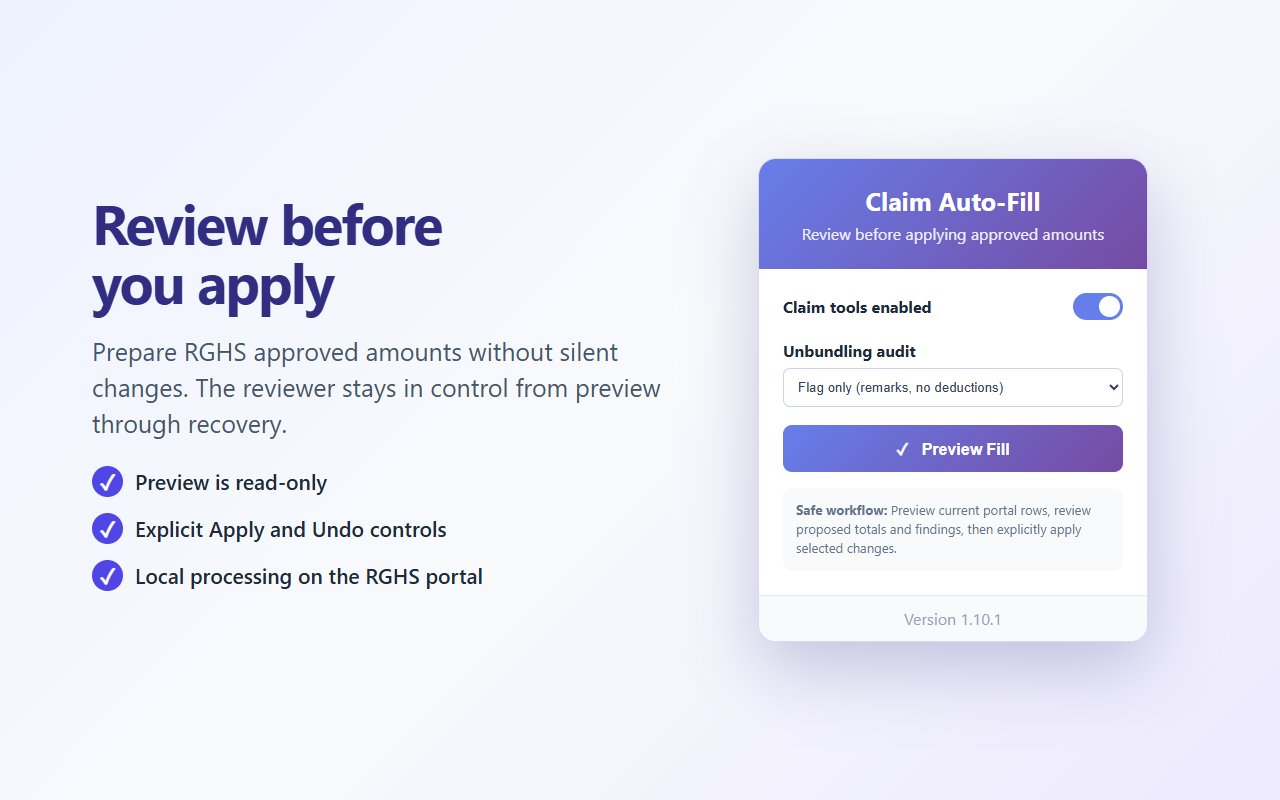
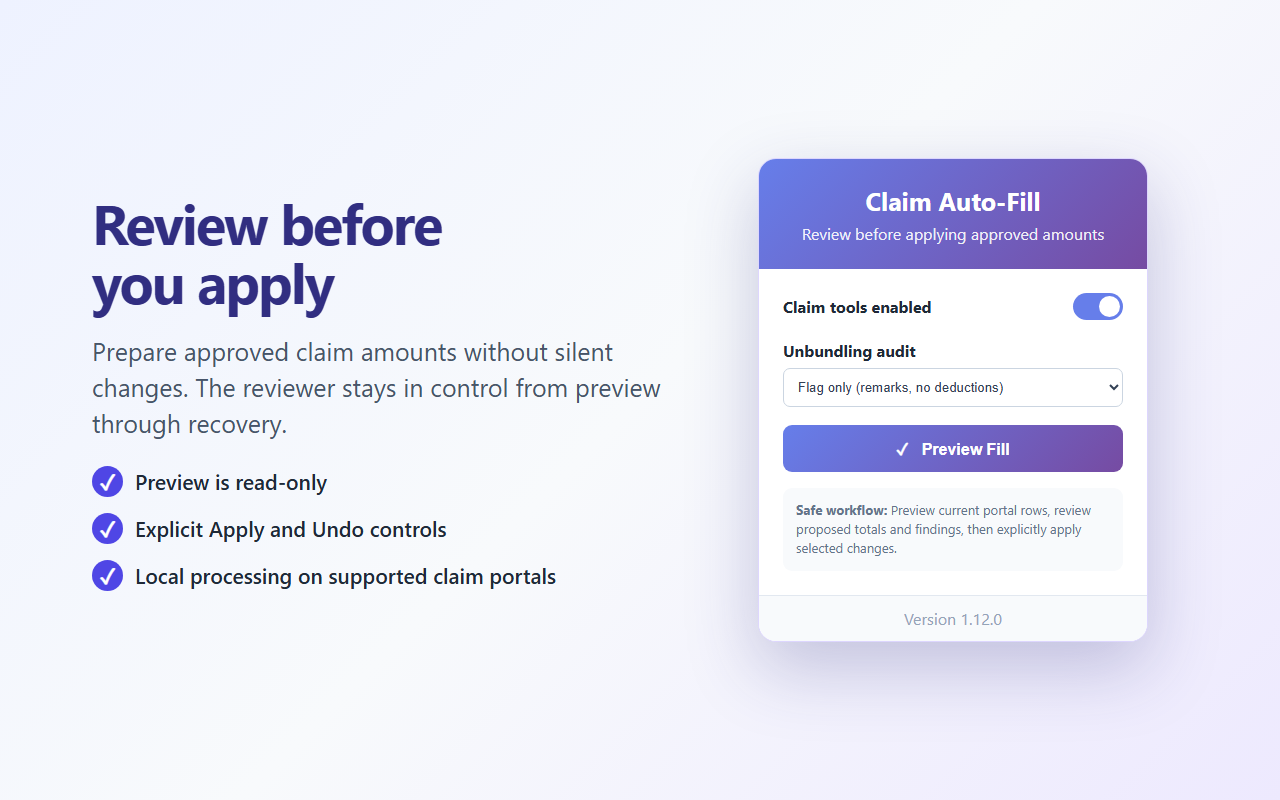
refactor(branding): use generic claim wording across product

diff --git a/hosting/terms.html b/hosting/terms.html
@@ -1,1 +1,1 @@
-<!doctype html><html lang="en"><head><meta charset="utf-8"><meta name="viewport" content="width=device-width,initial-scale=1"><title>Claim Spark Terms</title><link rel="stylesheet" href="/styles.css"></head><body><main class="public-shell"><a class="brand" href="/">Claim Spark</a><h1>Terms</h1><p>Claim Spark is a review aid for authorized users. It does not provide medical advice, make final adjudication decisions, or submit claims automatically. Users remain responsible for verifying every proposed change and complying with RGHS and organizational requirements.</p><h2>Paid individual access</h2><p>The official payment destination is <strong>YUVAN ENTERPRISES</strong>, UPI ID <strong>yuvanent@ybl</strong>. Plans cost ₹99 for 1 week, ₹198 for 2 weeks, ₹300 for 4 weeks and ₹500 for 12 weeks. Confirm the receiver and exact plan amount before authorizing payment. Access begins only after the payment is independently verified, the account is approved and the matching licence term is activated. Submitting a UPI transaction ID does not itself prove payment or guarantee activation.</p><h2>Refunds</h2><p>Submit a refund request to support at 7073684173 within 3 calendar days of payment. Refunds are eligible for a verified duplicate payment, cancellation before licence activation or use, or a verified payment that cannot be fulfilled because access cannot be activated. An approved refund will be initiated within 3 calendar days.</p><p>Payments are non-refundable after the request deadline, after the licence has been activated or used, when access is suspended or terminated for misuse or a terms violation, when the submitted transaction cannot be independently verified, or when payment was sent to an account other than the official UPI ID above. These rules do not limit rights that cannot be excluded under applicable law. A confirmed refund, reversal or payment dispute may deactivate the related licence.</p></main></body></html>
+<!doctype html><html lang="en"><head><meta charset="utf-8"><meta name="viewport" content="width=device-width,initial-scale=1"><title>Claim Spark Terms</title><link rel="stylesheet" href="/styles.css"></head><body><main class="public-shell"><a class="brand" href="/">Claim Spark</a><h1>Terms</h1><p>Claim Spark is a review aid for authorized users. It does not provide medical advice, make final adjudication decisions, or submit claims automatically. Users remain responsible for verifying every proposed change and complying with applicable claim-scheme and organizational requirements.</p><h2>Paid individual access</h2><p>The official payment destination is <strong>YUVAN ENTERPRISES</strong>, UPI ID <strong>yuvanent@ybl</strong>. Plans cost ₹99 for 1 week, ₹198 for 2 weeks, ₹300 for 4 weeks and ₹500 for 12 weeks. Confirm the receiver and exact plan amount before authorizing payment. Access begins only after the payment is independently verified, the account is approved and the matching licence term is activated. Submitting a UPI transaction ID does not itself prove payment or guarantee activation.</p><h2>Refunds</h2><p>Submit a refund request to support at 7073684173 within 3 calendar days of payment. Refunds are eligible for a verified duplicate payment, cancellation before licence activation or use, or a verified payment that cannot be fulfilled because access cannot be activated. An approved refund will be initiated within 3 calendar days.</p><p>Payments are non-refundable after the request deadline, after the licence has been activated or used, when access is suspended or terminated for misuse or a terms violation, when the submitted transaction cannot be independently verified, or when payment was sent to an account other than the official UPI ID above. These rules do not limit rights that cannot be excluded under applicable law. A confirmed refund, reversal or payment dispute may deactivate the related licence.</p></main></body></html>

diff --git a/hosting/privacy.html b/hosting/privacy.html
@@ -1,1 +1,1 @@
-<!doctype html><html lang="en"><head><meta charset="utf-8"><meta name="viewport" content="width=device-width,initial-scale=1"><title>Claim Spark Privacy</title><link rel="stylesheet" href="/styles.css"></head><body><main class="public-shell"><a class="brand" href="/">Claim Spark</a><h1>Privacy</h1><p>Claim Spark processes RGHS claim content locally in the authorized processor's browser. The Firebase service receives account, organization, role, licence, invitation, rate-limit and privacy-safe event metadata. It does not receive patient names, claim identifiers, clinical text, claim amounts, portal URLs or remarks during routine operation.</p><h2>Individual payments</h2><p>Individual users pay outside the extension using the official UPI QR code supplied by an administrator. Claim Spark stores the submitted UPI transaction ID (UTR), payment-verification status, verifier and verification time for access administration and audit purposes. It does not request or store UPI PINs, OTPs, card numbers, passwords or bank-account credentials.</p><p>The payment reference remains with the account record until it is replaced or the account is deleted and redacted under the account-deletion process. For privacy requests, use the support page.</p><nav class="public-links"><a href="/support">Support</a><a href="/deletion">Account deletion</a></nav></main></body></html>
+<!doctype html><html lang="en"><head><meta charset="utf-8"><meta name="viewport" content="width=device-width,initial-scale=1"><title>Claim Spark Privacy</title><link rel="stylesheet" href="/styles.css"></head><body><main class="public-shell"><a class="brand" href="/">Claim Spark</a><h1>Privacy</h1><p>Claim Spark processes claim content locally in the authorized processor's browser. The Firebase service receives account, organization, role, licence, invitation, rate-limit and privacy-safe event metadata. It does not receive patient names, claim identifiers, clinical text, claim amounts, portal URLs or remarks during routine operation.</p><h2>Individual payments</h2><p>Individual users pay outside the extension using the official UPI QR code supplied by an administrator. Claim Spark stores the submitted UPI transaction ID (UTR), payment-verification status, verifier and verification time for access administration and audit purposes. It does not request or store UPI PINs, OTPs, card numbers, passwords or bank-account credentials.</p><p>The payment reference remains with the account record until it is replaced or the account is deleted and redacted under the account-deletion process. For privacy requests, use the support page.</p><nav class="public-links"><a href="/support">Support</a><a href="/deletion">Account deletion</a></nav></main></body></html>

diff --git a/floating-widget.js b/floating-widget.js
@@ -439,7 +439,7 @@
           open.addEventListener('click', () => {
             const url = new URL(entry.transactionUrl, location.origin);
             if (url.origin !== location.origin) {
-              showStatus('The portal record link is not available on this RGHS page.', 'error');
+              showStatus('The portal record link is not available on this claim page.', 'error');
               return;
             }
             url.hash = entry.transactionId || '';
@@ -597,7 +597,7 @@
     cardHistory.hidden = false;
     cardHistory.replaceChildren();
     const title = document.createElement('strong');
-    title.textContent = `RGHS case history (${history.cases.length})`;
+    title.textContent = `Claim case history (${history.cases.length})`;
     cardHistory.appendChild(title);
     if (history.cases.length) {
       const list = document.createElement('ul');
@@ -684,7 +684,7 @@
       });
       cardHistory.append(blockedInvestigations, historyResults);
     }
-    makeSectionCollapsible(cardHistory, 'card-history', `RGHS case history (${history.cases.length})`);
+    makeSectionCollapsible(cardHistory, 'card-history', `Claim case history (${history.cases.length})`);
   }
 
   function renderInvestigationChecklist() {
@@ -985,7 +985,7 @@
       applyButton.disabled = true;
       const messages = {
         'autofill-disabled': 'BLOCKED: Claim Extension is OFF. Turn it on, then preview again.',
-        'unsupported-layout': 'BLOCKED: The RGHS process-sheet layout is not compatible with this extension version.',
+        'unsupported-layout': 'BLOCKED: The claim process-sheet layout is not compatible with this extension version.',
         'invalid-rule-set': 'BLOCKED: The bundled audit rules failed validation. Reload a verified extension build.',
         'invalid-processing-rule-set': 'BLOCKED: The published processing rules failed validation. Contact an administrator.',
         'processing-rules-unavailable': 'BLOCKED: The latest processing rules could not be verified. Try again when connected.',
@@ -1312,7 +1312,7 @@
       requestAnimationFrame(() => reviewList.scrollIntoView({ block: 'start', behavior: 'smooth' }));
     } catch (_) {
       if (!hasValidExtensionContext()) return invalidateStaleWidget();
-      showStatus('Unable to prepare this sheet for preview. Refresh the RGHS page and try again.', 'error');
+      showStatus('Unable to prepare this sheet for preview. Refresh the claim page and try again.', 'error');
     }
   });
   pendingButton.addEventListener('click', () => {

diff --git a/popup.js b/popup.js
@@ -969,7 +969,7 @@ function describeCounts(response) {
 function blockedMessage(reason) {
   const messages = {
     'autofill-disabled': 'Claim Extension is OFF. Turn it on, then preview again.',
-    'unsupported-layout': 'Unsupported RGHS portal layout. No fields were changed.',
+    'unsupported-layout': 'Unsupported claim portal layout. No fields were changed.',
     'invalid-rule-set': 'Audit rule validation failed. Reload a verified build.',
     'invalid-processing-rule-set': 'Published processing rules failed validation. Contact an administrator.',
     'processing-rules-unavailable': 'The latest processing rules could not be verified. Check your connection and try again.',
@@ -1052,7 +1052,7 @@ fillNowBtn.addEventListener('click', async () => {
     previewToken = null;
     previewRowKeys = [];
     setFillButton();
-    showStatus('Open an RGHS claim page, then refresh and try again', 'error');
+    showStatus('Open a supported claim page, then refresh and try again', 'error');
   }
 });
 
@@ -1079,7 +1079,7 @@ exportLogBtn.addEventListener('click', () => {
     const url = URL.createObjectURL(blob);
     const anchor = document.createElement('a');
     anchor.href = url;
-    anchor.download = `rghs-audit-log-${new Date().toISOString().slice(0, 10)}.csv`;
+    anchor.download = `claim-audit-log-${new Date().toISOString().slice(0, 10)}.csv`;
     document.body.appendChild(anchor);
     anchor.click();
     anchor.remove();

diff --git a/content.js b/content.js
@@ -1577,7 +1577,7 @@ function fillAllApprovedAmounts({ apply = true, roots = [document], selectedRowK
             auditLogEntries.push(Audit.buildAuditEntry(action, { ...context, amountBefore: record.approvedValue }));
           }
         }
-        debugLog(`[RGHS-Audit] Row ${rowIndex}: ${actions.map(action => action.ruleId).join(', ')} ${deductAction && !hasApprovedOverride ? '(deduction applied)' : '(review decision applied)'}`);
+        debugLog(`[Claim-Audit] Row ${rowIndex}: ${actions.map(action => action.ruleId).join(', ')} ${deductAction && !hasApprovedOverride ? '(deduction applied)' : '(review decision applied)'}`);
       }
     }
 
@@ -1693,7 +1693,7 @@ function fillAllApprovedAmounts({ apply = true, roots = [document], selectedRowK
             ? proposedApproved : undefined,
           decisionRole: plan.decisionRole || undefined,
           reason: plan.reason === 'medicine'
-            ? `${Core.DEDUCTION_PERCENT}% RGHS medicine deduction; rounded to nearest whole rupee`
+            ? `${Core.DEDUCTION_PERCENT}% medicine deduction under the configured claim policy; rounded to nearest whole rupee`
             : plan.reason === 'lama-dama-surgical'
               ? `${Core.LAMA_DAMA_SURGICAL_PERCENT}% of the surgical package for LAMA/DAMA discharge`
               : plan.reason === 'incomplete-daily-ipd'

diff --git a/store-assets/capture-popup.html b/store-assets/capture-popup.html
@@ -46,10 +46,10 @@
   <main class="frame">
     <section class="copy">
       <h1>Review before<br>you apply</h1>
-      <p>Prepare RGHS approved amounts without silent changes. The reviewer stays in control from preview through recovery.</p>
+      <p>Prepare approved claim amounts without silent changes. The reviewer stays in control from preview through recovery.</p>
       <div class="point"><span class="tick">✓</span> Preview is read-only</div>
       <div class="point"><span class="tick">✓</span> Explicit Apply and Undo controls</div>
-      <div class="point"><span class="tick">✓</span> Local processing on the RGHS portal</div>
+      <div class="point"><span class="tick">✓</span> Local processing on supported claim portals</div>
     </section>
     <section class="popup" aria-label="Extension popup demonstration">
       <div class="head"><h2>Claim Auto-Fill</h2><p>Review before applying approved amounts</p></div>
@@ -60,7 +60,7 @@
         <button type="button">✓ &nbsp; Preview Fill</button>
         <div class="note"><strong>Safe workflow:</strong> Preview current portal rows, review proposed totals and findings, then explicitly apply selected changes.</div>
       </div>
-      <div class="foot">Version 1.10.1</div>
+      <div class="foot">Version 1.12.0</div>
     </section>
   </main>
 </body>

diff --git a/test-page.html b/test-page.html
@@ -177,7 +177,7 @@
     </table>
 
     <h2>Test Case 4: Unbundling &mdash; CBC package + components (Rule BI-01)</h2>
-    <p>Expect the ESR and peripheral smear rows to be flagged (amber/orange) with an [RGHS-AUDIT] remark; in deduct mode with BI-01 allowlisted, their approved amounts become 0.</p>
+    <p>Expect the ESR and peripheral smear rows to be flagged (amber/orange) with a review remark; in deduct mode with BI-01 allowlisted, their approved amounts become 0.</p>
     <table>
         <thead>
             <tr>
@@ -265,7 +265,7 @@
     </table>
 
     <h2>Test Case 6: Review-only findings (duplicate MM diagnosis + adjunct cluster)</h2>
-    <p>Expect all four rows flagged for review (amber) with [RGHS-AUDIT] REVIEW REQUIRED remarks; approved amounts stay untouched even in deduct mode.</p>
+    <p>Expect all four rows flagged for review (amber) with review remarks; approved amounts stay untouched even in deduct mode.</p>
     <table>
         <thead>
             <tr>

diff --git a/claim-core.js b/claim-core.js
@@ -11,11 +11,11 @@
     'medicine charges during hospitalization period',
     'final rate for medicine on discharge'
   ];
-  const DEDUCTION_REMARK = '12% DEDUCTED AS PER RGHS GUIDELINES';
+  const DEDUCTION_REMARK = '12% DEDUCTED AS PER CONFIGURED CLAIM POLICY';
   const DEDUCTION_PERCENT = 12;
   const PHARMACY_MARKET_PRICE_REMARK = 'Approved As per prevailing market price.';
   const LAMA_DAMA_SURGICAL_PERCENT = 75;
-  const LAMA_DAMA_SURGICAL_REMARK = '75% approved for surgical package on LAMA/DAMA discharge as per RGHS SOP.';
+  const LAMA_DAMA_SURGICAL_REMARK = '75% approved for surgical package on LAMA/DAMA discharge under the configured claim policy.';
 
   // RGHS claim workflows this extension actively assists with. Passive
   // features (floating widget and passive audit highlights)

diff --git a/tests/extension-context.test.js b/tests/extension-context.test.js
@@ -144,7 +144,7 @@ test('Apply reports a missing preview or selection instead of failing silently',
 
 test('Preview returns the widget to its refreshed result summary', () => {
   assert.match(source, /renderPreview\(await \(actions\.previewFresh \? actions\.previewFresh\(\) : actions\.preview\(\)\)\);\s*setSectionCollapsed\(ipdContext, 'ipd-context', true\);\s*setSectionCollapsed\(cardHistory, 'card-history', true\);/);
-  assert.match(source, /Unable to prepare this sheet for preview\. Refresh the RGHS page and try again\./);
+  assert.match(source, /Unable to prepare this sheet for preview\. Refresh the claim page and try again\./);
 });
 
 test('widget supports layout reset, collapsible context, and task focus', () => {

diff --git a/options.html b/options.html
@@ -3,13 +3,13 @@
 <head>
   <meta charset="UTF-8">
   <meta name="viewport" content="width=device-width, initial-scale=1.0">
-  <title>RGHS Audit Rules &amp; Statistics</title>
+  <title>Claim Audit Rules &amp; Statistics</title>
   <link rel="stylesheet" href="options.css">
 </head>
 <body>
   <div class="container">
     <header>
-      <h1>RGHS Audit Rules &amp; Statistics</h1>
+      <h1>Claim Audit Rules &amp; Statistics</h1>
       <p id="rulesMeta" class="meta"></p>
       <p class="hint">Processing rules are centrally governed. This page provides local statistics only; processors cannot change deductions, remarks, rule priority, or rule activation.</p>
     </header>

diff --git a/popup.html b/popup.html
@@ -239,7 +239,7 @@
           <li>Extension automatically detects claim and approved amount fields</li>
           <li>Fills empty approved amounts with corresponding claim amounts</li>
           <li>Audit checks bundled packages billed together with their components</li>
-          <li>Flagged rows get an [RGHS-AUDIT] remark and colour highlight</li>
+          <li>Flagged rows show review remarks and colour highlights</li>
           <li>Audit flags are screening aids, not automatic rejections &mdash; verify documentation</li>
           <li>Preview changes before applying; undo while the page remains open</li>
         </ul>

diff --git a/options.js b/options.js
@@ -31,7 +31,7 @@ function render(statsByRule, processingRuleSet) {
     ? ` Central version ${processingRuleSet.versionId} is ${processingRuleSet.mode}.`
     : ' No central version has been cached in this profile.';
   rulesMeta.textContent =
-    `Bundled safety rules ${Rules.version} from ${Rules.source}.${centralVersion} ` +
+    `Bundled safety rules ${Rules.version} from the healthcare coding audit matrix.${centralVersion} ` +
     'All processing behavior is read-only for processors.';
 
   for (const rule of listBuiltInRules()) {
